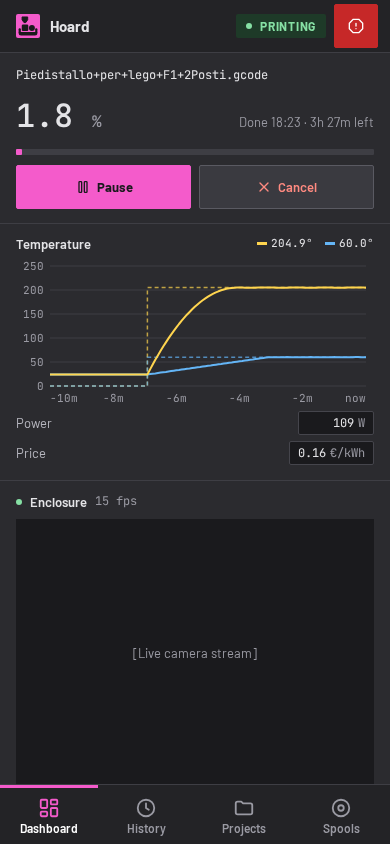
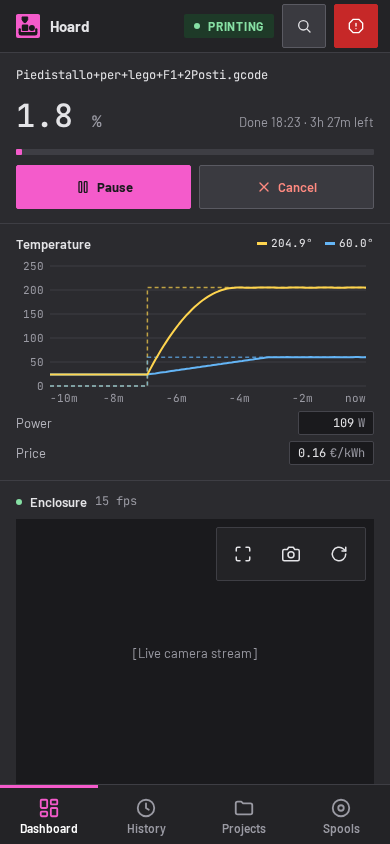
docs: the README says what the phone has, with new screenshots
Refs STE-147

diff --git a/README.md b/README.md
@@ -12,7 +12,7 @@ The [wiki](https://github.com/stevendejongnl/Hoard/wiki) has the guides: install
 | **Projects** | **Spools** |
 | ![The projects as cards with their totals](docs/screenshots/projects.png) | ![The spools with the remaining filament](docs/screenshots/spools.png) |
 
-It works on a phone as well, and installs as an app (PWA).
+It works on a phone as well, with the same features as on desktop: printer power and the other switches, starting a print, the cost predictor, search and the camera buttons. It installs as an app (PWA).
 
 | Dashboard | History | Spools | Edit a spool |
 |---|---|---|---|
